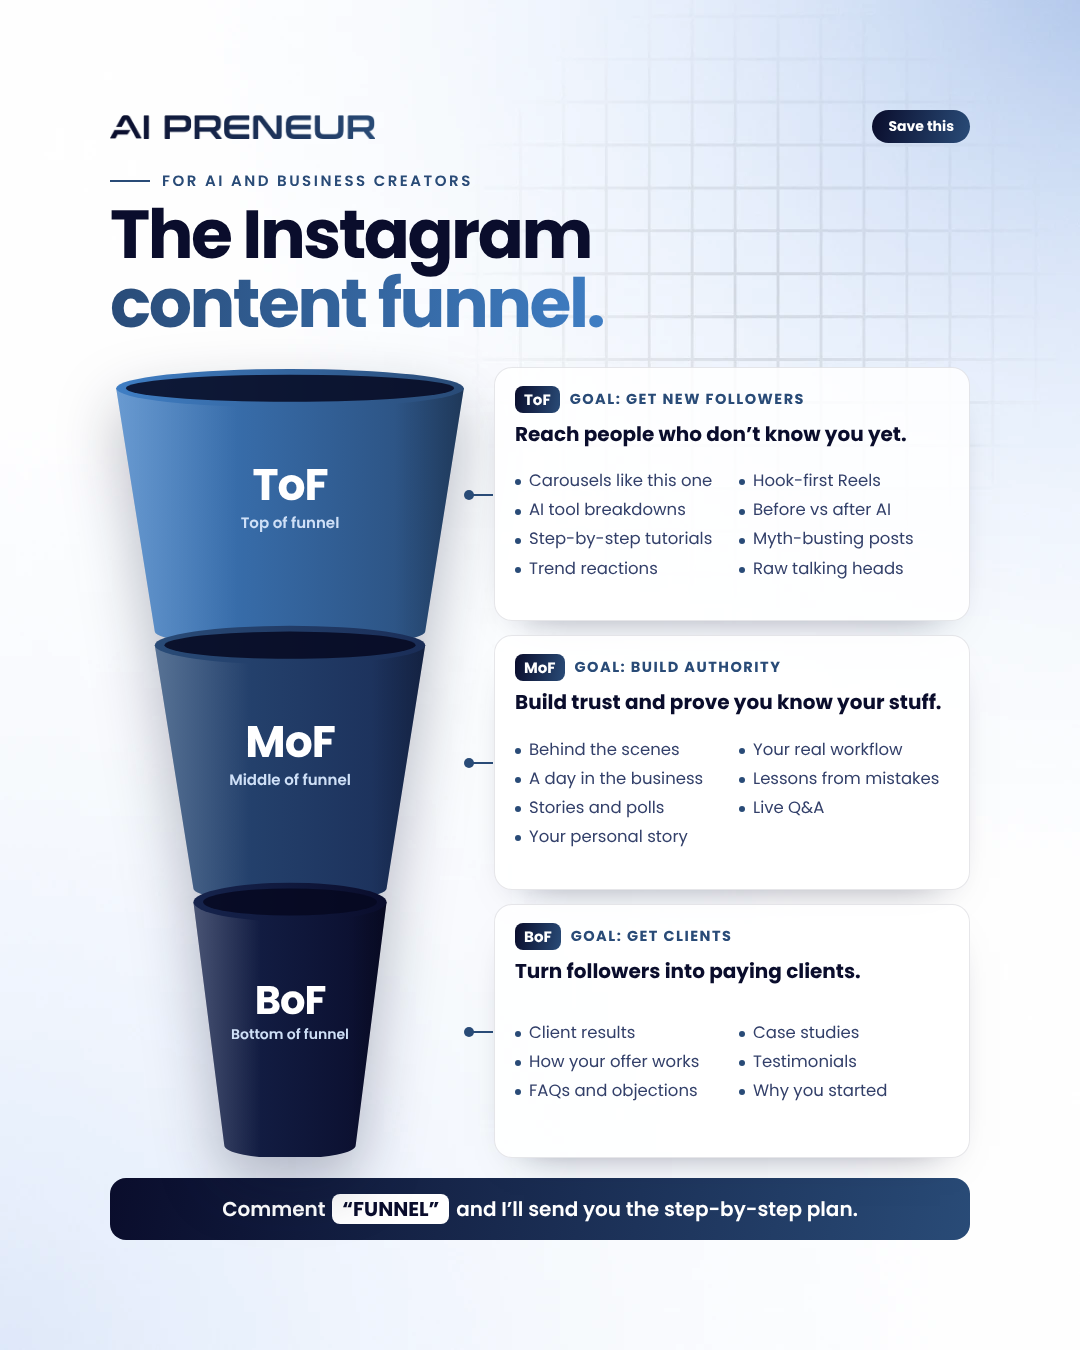
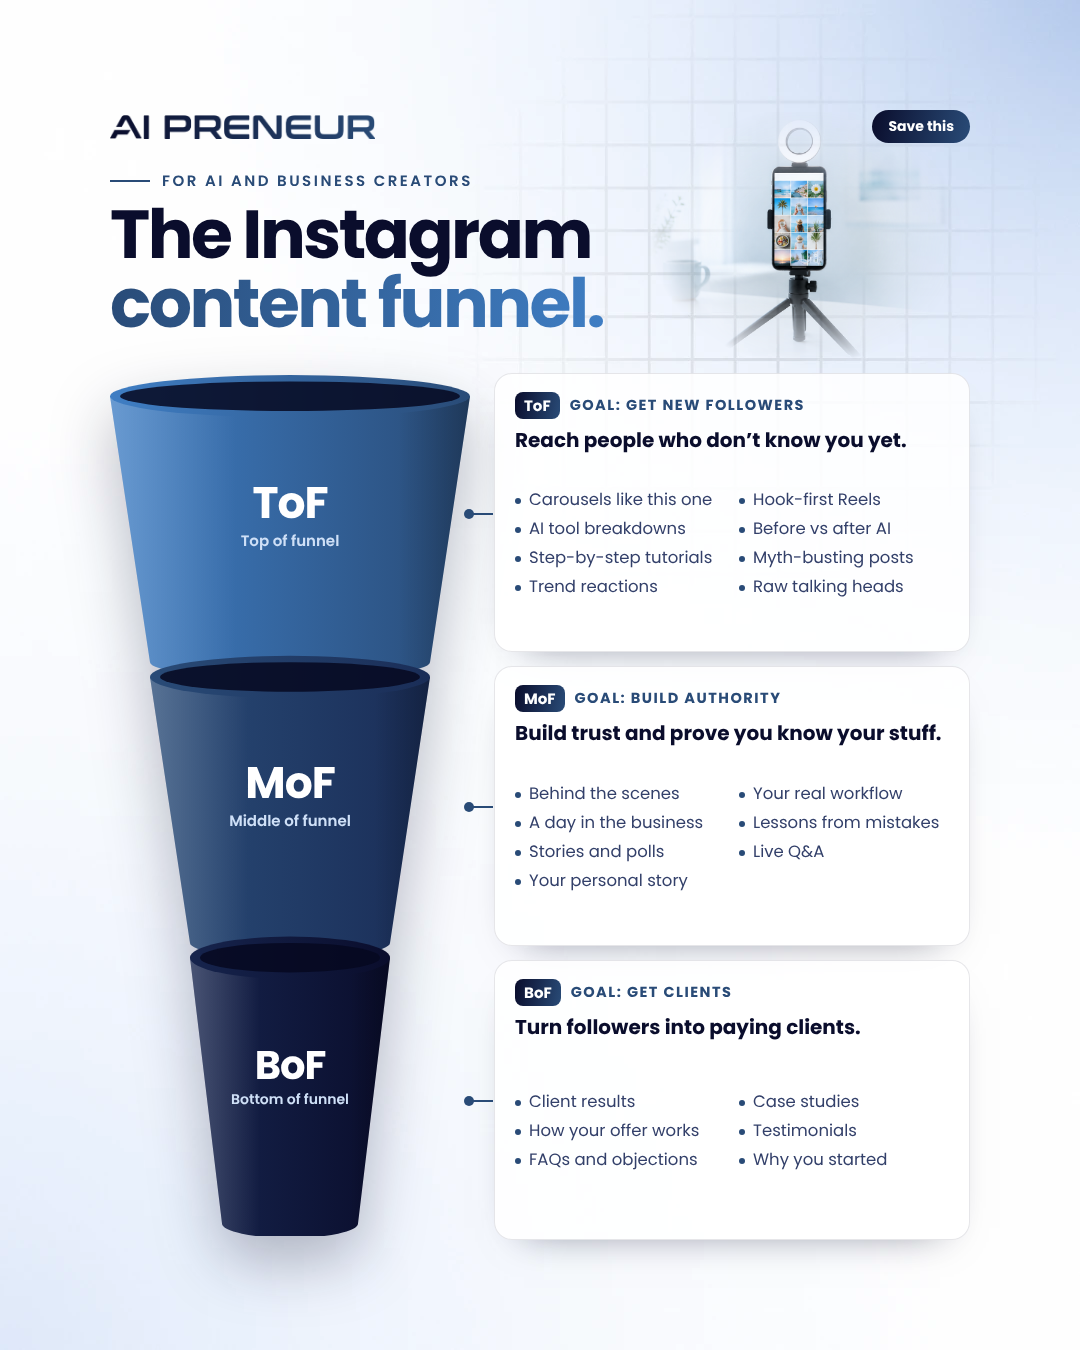
Content funnel: remove comment CTA, add fading header photo
Claude-Session: https://claude.ai/code/session_01FYKeHLx1qY2bAhSHR89JeA

diff --git a/projects/content-funnel/style.css b/projects/content-funnel/style.css
@@ -40,3 +40,14 @@ h1 span{background:linear-gradient(100deg,#294b77,#3f7ec4);-webkit-background-cl
 .cd ul{margin-top:auto;margin-bottom:auto;gap:6px 14px}
 .cd li{font-size:16.5px;line-height:1.4;color:#33406a}
 .ch b{font-size:15px}.ch span{font-size:14.5px}
+
+.hero{position:absolute;right:110px;top:150px;width:470px;height:330px;pointer-events:none}
+.hero img{width:100%;height:100%;object-fit:cover;object-position:50% 30%;
+  -webkit-mask-image:radial-gradient(ellipse 50% 50% at 50% 50%,#000 45%,transparent 100%);mask-image:radial-gradient(ellipse 50% 50% at 50% 50%,#000 45%,transparent 100%)}
+.label,h1,.body,.tp{position:relative;z-index:1}
+.body{margin-top:30px}
+
+.hero{right:96px;top:120px;width:360px;height:290px}
+.hero img{-webkit-mask-image:radial-gradient(ellipse 46% 48% at 52% 46%,#000 40%,transparent 100%);mask-image:radial-gradient(ellipse 46% 48% at 52% 46%,#000 40%,transparent 100%)}
+.fw{height:100%}.fn{height:100%}
+.hero{right:110px;top:112px;width:340px;height:270px}.fw{height:calc(100% - 4px)}

diff --git a/projects/content-funnel/build.py b/projects/content-funnel/build.py
@@ -13,7 +13,7 @@ T = [
 W, H, G, RY = 360, 252, 14, 20
 xs = [(0, 360), (40, 320), (80, 280), (112, 248)]
 FILL = ["url(#g0)", "url(#g1)", "url(#g2)"]
-svg = '<svg class="fn" viewBox="0 -22 360 818"><defs>' \
+svg = '<svg class="fn" viewBox="0 -22 360 818" preserveAspectRatio="none"><defs>' \
       '<linearGradient id="g0" x1="0" x2="1"><stop offset="0" stop-color="#3f7ec4"/><stop offset="1" stop-color="#294b77"/></linearGradient>' \
       '<linearGradient id="g1" x1="0" x2="1"><stop offset="0" stop-color="#294b77"/><stop offset="1" stop-color="#1a2d57"/></linearGradient>' \
       '<linearGradient id="g2" x1="0" x2="1"><stop offset="0" stop-color="#16244d"/><stop offset="1" stop-color="#0a0d2c"/></linearGradient>' \
@@ -26,16 +26,16 @@ for i in range(3):
     svg += f'<path d="{body}" fill="{FILL[i]}"/><path d="{body}" fill="url(#sh)"/>'
     svg += f'<ellipse cx="{cx0}" cy="{y0}" rx="{rx0}" ry="{RY}" fill="{FILL[i]}"/><ellipse cx="{cx0}" cy="{y0}" rx="{rx0-10}" ry="{RY-6}" fill="#060820" opacity=".85"/>'
 svg += "</svg>"
-labels = "".join(f'<div class="tl t{i}" style="top:{(i*(H+G)+H*0.45+22)*0.9658:.0f}px"><b>{k}</b><span>{n}</span></div>' for i, (k, n, *_ ) in enumerate(T))
+labels = "".join(f'<div class="tl t{i}" style="top:{(i*(H+G)+H*0.45+22)/818*100:.2f}%"><b>{k}</b><span>{n}</span></div>' for i, (k, n, *_ ) in enumerate(T))
 cards = "".join(f'''<div class="cd c{i}"><div class="ch"><b>{k}</b><span>Goal: {short}</span></div><p class="gl">{goal}</p>
   <ul>{"".join(f"<li>{x}</li>" for x in items)}</ul></div>''' for i, (k, n, goal, short, items) in enumerate(T))
 CSS = (D / "style.css").read_text()
 (D / "carousel.html").write_text(f'''<!doctype html><html lang="en"><head><meta charset="utf-8"><title>Content Funnel</title><style>{CSS}</style></head><body>
 <section class="slide">
  <div class="tp"><img class="logo" src="assets/logo_navy.png" alt="AIpreneur"><span class="save">Save this</span></div>
+ <div class="hero"><img src="assets/phone.png" alt=""></div>
  <div class="label">For AI and business creators</div>
  <h1>The Instagram<br><span>content funnel.</span></h1>
  <div class="body"><div class="fw">{svg}{labels}</div><div class="cards">{cards}</div></div>
- <div class="cta">Comment <b>“FUNNEL”</b> and I’ll send you the step-by-step plan.</div>
 </section></body></html>''')
 print("ok")
